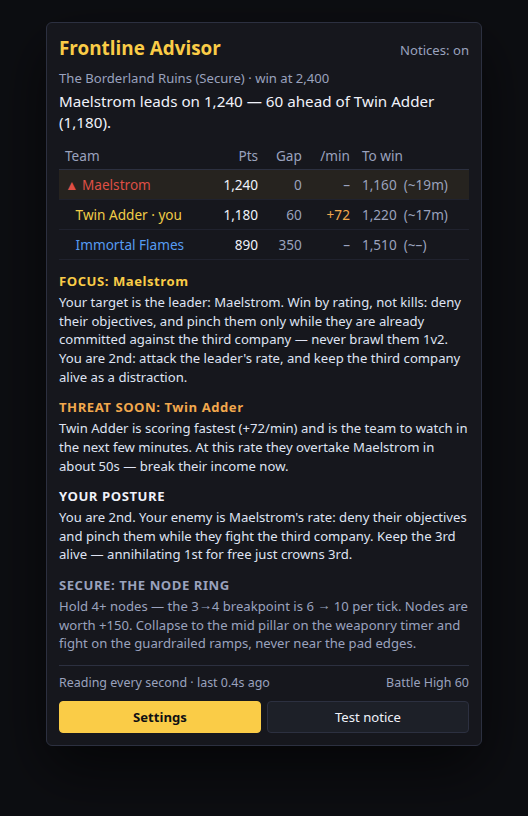
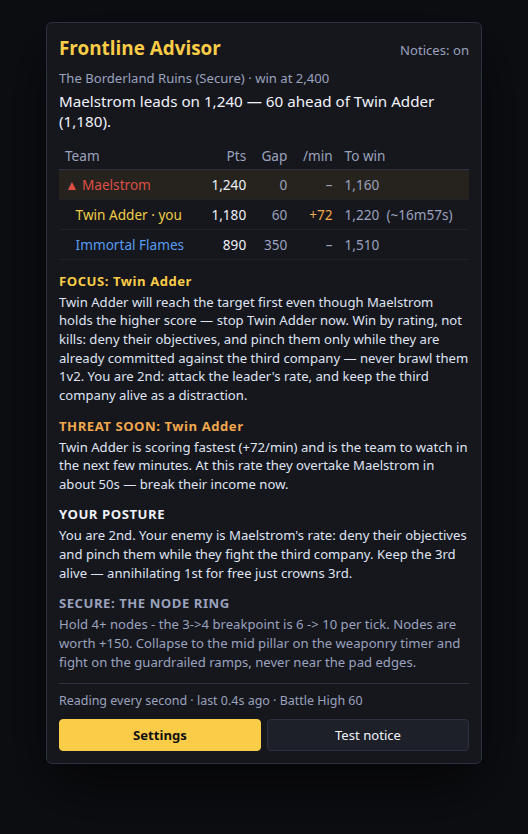
Refresh simulated screenshots from the latest Core briefing (#3)
Regenerate mid-match, settings, and lead-change mocks from Analyzer,
Advisor.Build, and MatchTracker on current master so focus correctly
names the imminent winner and notices use the live tracker wording.

Changed region(s): [[0.0909, 0.0306, 0.9091, 0.9191], [0.3939, 0.1838, 0.8485, 0.3064], [0.7879, 0.0306, 0.8485, 0.0919]]

diff --git a/docs/screenshots/mock-notice.html b/docs/screenshots/mock-notice.html
@@ -15,7 +15,7 @@
   .stage{width:560px;display:flex;flex-direction:column;gap:18px}
 
   .chat{
-    align-self:flex-start;width:320px;
+    align-self:flex-start;width:340px;
     background:rgba(12,14,20,.94);border:1px solid #2c3040;border-radius:6px;padding:10px 12px;
     font-size:.8rem;line-height:1.45;box-shadow:0 12px 30px rgba(0,0,0,.4);
   }
@@ -41,21 +41,22 @@
   .pbody{font-size:.82rem;line-height:1.42;color:#dfe3f2}
 
   .toast{
-    align-self:center;min-width:400px;max-width:460px;
+    align-self:center;min-width:400px;max-width:480px;
     background:rgba(18,20,28,.98);border:1px solid #3a4158;border-radius:8px;
     box-shadow:0 18px 50px rgba(0,0,0,.55);padding:14px 16px;
     display:flex;gap:12px;align-items:flex-start;
   }
   .star{color:var(--gold);font-size:1.2rem;line-height:1}
   .tag{color:var(--gold);font-size:.78rem;font-weight:700;letter-spacing:.06em;margin-bottom:4px}
-  .msg{font-size:.92rem;line-height:1.4}
+  .msg{font-size:.9rem;line-height:1.4}
 </style>
 </head>
 <body>
+  <!-- Notice text from MatchTracker LeadChange on latest master. -->
   <div class="stage" id="shot">
     <div class="chat">
       <div class="prefix">★ FRONTLINE LEAD CHANGE</div>
-      <div class="body">Twin Adder takes the lead on 1,252 — Maelstrom drops to 2nd (1,240).</div>
+      <div class="body">Twin Adder takes the lead on 1,252 (12 clear of Maelstrom), up from Maelstrom. New target: Twin Adder &mdash; deny their income, do not fight the team below you.</div>
     </div>
 
     <div class="win">
@@ -70,14 +71,14 @@
           <tr><th>Team</th><th class="num">Pts</th><th class="num">Gap</th><th class="num">/min</th><th>To win</th></tr>
         </thead>
         <tbody>
-          <tr class="row-lead"><td class="adder">&#9650; Twin Adder &middot; you</td><td class="num">1,252</td><td class="num dim">0</td><td class="num rise">+72</td><td class="dim">1,148 &nbsp;(~16m)</td></tr>
-          <tr><td class="mael">&nbsp;&nbsp;&nbsp;Maelstrom</td><td class="num">1,240</td><td class="num dim">12</td><td class="num dim">&ndash;</td><td class="dim">1,160 &nbsp;(~19m)</td></tr>
-          <tr><td class="flame">&nbsp;&nbsp;&nbsp;Immortal Flames</td><td class="num">905</td><td class="num dim">347</td><td class="num dim">&ndash;</td><td class="dim">1,495 &nbsp;(~&ndash;)</td></tr>
+          <tr class="row-lead"><td class="adder">&#9650; Twin Adder &middot; you</td><td class="num">1,252</td><td class="num dim">0</td><td class="num rise">+144</td><td class="dim">1,148</td></tr>
+          <tr><td class="mael">&nbsp;&nbsp;&nbsp;Maelstrom</td><td class="num">1,240</td><td class="num dim">12</td><td class="num dim">&ndash;</td><td class="dim">1,160</td></tr>
+          <tr><td class="flame">&nbsp;&nbsp;&nbsp;Immortal Flames</td><td class="num">905</td><td class="num dim">347</td><td class="num rise">+30</td><td class="dim">1,495</td></tr>
         </tbody>
       </table>
       <div class="panel">
         <div class="ptitle">FOCUS: Twin Adder</div>
-        <div class="pbody">You just took the lead. Defend your rate — do not chase kills into a 1v2. Keep Immortal Flames alive as a distraction while Maelstrom tries to claw back.</div>
+        <div class="pbody">Your target is the leader: Twin Adder. Win by rating, not kills: deny their objectives, and pinch them only while they are already committed against the third company &mdash; never brawl them 1v2. You are the leader: your enemy is the clock. Hold, stay unclumped and out of the open melee.</div>
       </div>
     </div>
 
@@ -85,7 +86,7 @@
       <div class="star">★</div>
       <div>
         <div class="tag">[FRONTLINE] LEAD CHANGE</div>
-        <div class="msg">Twin Adder takes the lead on 1,252 — Maelstrom drops to 2nd (1,240).</div>
+        <div class="msg">Twin Adder takes the lead on 1,252 (12 clear of Maelstrom), up from Maelstrom. New target: Twin Adder &mdash; deny their income, do not fight the team below you.</div>
       </div>
     </div>
   </div>

diff --git a/docs/screenshots/mock-advisor.html b/docs/screenshots/mock-advisor.html
@@ -5,7 +5,7 @@
 <title>Frontline Advisor — mid-match</title>
 <style>
   :root{
-    --bg:#16171d; --panel:#1b1d26; --text:#f0f2fa; --dim:#9aa2bd; --gold:#facc47;
+    --bg:#16171d; --text:#f0f2fa; --dim:#9aa2bd; --gold:#facc47;
     --mael:#de4f45; --adder:#f0cc47; --flame:#579cf2; --threat:#f2a84d;
   }
   *{box-sizing:border-box}
@@ -42,6 +42,7 @@
 </style>
 </head>
 <body>
+  <!-- Copy generated from Core Analyzer + Advisor.Build against sample Secure scores (latest master). -->
   <div class="win" id="shot">
     <div class="head">
       <div class="title">Frontline Advisor</div>
@@ -56,15 +57,15 @@
         <tr><th>Team</th><th class="num">Pts</th><th class="num">Gap</th><th class="num">/min</th><th>To win</th></tr>
       </thead>
       <tbody>
-        <tr class="row-lead"><td class="mael">&#9650; Maelstrom</td><td class="num">1,240</td><td class="num dim">0</td><td class="num dim">&ndash;</td><td class="dim">1,160 &nbsp;(~19m)</td></tr>
-        <tr><td class="adder">&nbsp;&nbsp;&nbsp;Twin Adder &middot; you</td><td class="num">1,180</td><td class="num dim">60</td><td class="num rise">+72</td><td class="dim">1,220 &nbsp;(~17m)</td></tr>
-        <tr><td class="flame">&nbsp;&nbsp;&nbsp;Immortal Flames</td><td class="num">890</td><td class="num dim">350</td><td class="num dim">&ndash;</td><td class="dim">1,510 &nbsp;(~&ndash;)</td></tr>
+        <tr class="row-lead"><td class="mael">&#9650; Maelstrom</td><td class="num">1,240</td><td class="num dim">0</td><td class="num dim">&ndash;</td><td class="dim">1,160</td></tr>
+        <tr><td class="adder">&nbsp;&nbsp;&nbsp;Twin Adder &middot; you</td><td class="num">1,180</td><td class="num dim">60</td><td class="num rise">+72</td><td class="dim">1,220 &nbsp;(~16m57s)</td></tr>
+        <tr><td class="flame">&nbsp;&nbsp;&nbsp;Immortal Flames</td><td class="num">890</td><td class="num dim">350</td><td class="num dim">&ndash;</td><td class="dim">1,510</td></tr>
       </tbody>
     </table>
 
     <div class="panel focus">
-      <div class="ptitle">FOCUS: Maelstrom</div>
-      <div class="pbody">Your target is the leader: Maelstrom. Win by rating, not kills: deny their objectives, and pinch them only while they are already committed against the third company &mdash; never brawl them 1v2. You are 2nd: attack the leader's rate, and keep the third company alive as a distraction.</div>
+      <div class="ptitle">FOCUS: Twin Adder</div>
+      <div class="pbody">Twin Adder will reach the target first even though Maelstrom holds the higher score &mdash; stop Twin Adder now. Win by rating, not kills: deny their objectives, and pinch them only while they are already committed against the third company &mdash; never brawl them 1v2. You are 2nd: attack the leader's rate, and keep the third company alive as a distraction.</div>
     </div>
 
     <div class="panel threat">
@@ -79,11 +80,11 @@
 
     <div class="panel map">
       <div class="ptitle">SECURE: THE NODE RING</div>
-      <div class="pbody">Hold 4+ nodes &mdash; the 3&rarr;4 breakpoint is 6 &rarr; 10 per tick. Nodes are worth +150. Collapse to the mid pillar on the weaponry timer and fight on the guardrailed ramps, never near the pad edges.</div>
+      <div class="pbody">Hold 4+ nodes - the 3-&gt;4 breakpoint is 6 -&gt; 10 per tick. Nodes are worth +150. Collapse to the mid pillar on the weaponry timer and fight on the guardrailed ramps, never near the pad edges.</div>
     </div>
 
     <hr>
-    <div class="foot"><span>Reading every second &middot; last 0.4s ago</span><span>Battle High 60</span></div>
+    <div class="foot"><span>Reading every second &middot; last 0.4s ago &middot; Battle High 60</span></div>
 
     <div class="btns">
       <div class="btn primary">Settings</div>

diff --git a/docs/screenshots/mock-settings.html b/docs/screenshots/mock-settings.html
@@ -35,6 +35,7 @@
 </style>
 </head>
 <body>
+  <!-- Defaults from Configuration / NotificationSettings.Default on latest master. -->
   <div class="win" id="shot">
     <div class="title">Frontline Advisor — Settings</div>
 
@@ -74,6 +75,14 @@
     </div>
     <div class="slider" style="--w:26%">
       <label>Win margin <b>150</b></label>
+      <div class="track"><div class="fill"></div><div class="knob"></div></div>
+    </div>
+    <div class="slider" style="--w:22%">
+      <label>Lead cooldown (s) <b>20</b></label>
+      <div class="track"><div class="fill"></div><div class="knob"></div></div>
+    </div>
+    <div class="slider" style="--w:28%">
+      <label>Threat cooldown (s) <b>30</b></label>
       <div class="track"><div class="fill"></div><div class="knob"></div></div>
     </div>
 

diff --git a/docs/screenshots/README.md b/docs/screenshots/README.md
@@ -2,11 +2,13 @@
 
 HTML mock sources for the Frontline Advisor windows, plus cropped PNGs used in the repo README and `preview.html`.
 
+Copy in the mid-match and lead-change mocks is taken from `Core` (`Analyzer` + `Advisor.Build` + `MatchTracker`) against sample Secure scores on the current master build — including the case where focus is the imminent winner rather than the scoreboard leader.
+
 | PNG | Source mock | Shows |
 |---|---|---|
 | `advisor_mid_match.png` | `mock-advisor.html` | Live board, focus, threat, posture, map note |
 | `advisor_idle.png` | `mock-idle.html` | Waiting for a Frontline match |
-| `advisor_settings.png` | `mock-settings.html` | Settings window |
+| `advisor_settings.png` | `mock-settings.html` | Settings window (defaults from `Configuration`) |
 | `advisor_lead_change.png` | `mock-notice.html` | Chat line + screen toast on lead change |
 
 Regenerate (needs Chrome):

diff --git a/README.md b/README.md
@@ -13,7 +13,7 @@ clock / the rate / the stalemate.*
 
 ## What it looks like
 
-Simulated screenshots of the advisor window (not captures from a live client). Open [`preview.html`](preview.html) for a gallery, or see the PNGs under [`docs/screenshots/`](docs/screenshots/).
+Simulated screenshots of the advisor window (not captures from a live client). Mid-match and lead-change copy is generated from `Core` against sample Secure scores on the current build. Open [`preview.html`](preview.html) for a gallery, or see the PNGs under [`docs/screenshots/`](docs/screenshots/).
 
 | Mid-match | Idle |
 |---|---|
